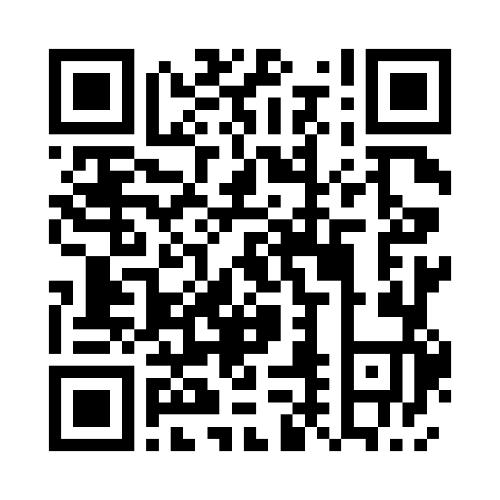
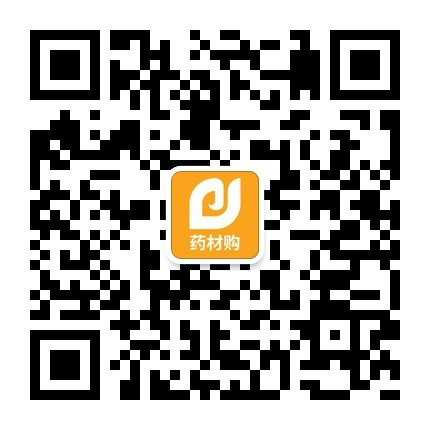
20160329 ready to done

diff --git a/res/Btrade-boss/templates/purchase.html b/res/Btrade-boss/templates/purchase.html
@@ -1,5 +1,6 @@
 {% extends "base.html" %}
 {% block container %}
+{% import config %}
 <div class="content-wrapper">
     <section class="content-header">
         <h1>订单管理</h1>
@@ -10,10 +11,7 @@
                 <a href="/purchase/purchaselist/type/-1/starttime/{{starttime}}/endtime/{{endtime}}"><span class="label {% if int(type) < 0%}label-warning{%else%}label-default{%end%}">全部（{{stat.get(0,0) + stat.get(1,0) + stat.get(3,0)}}）</span></a>
             </div>
             <div class="form-group">
-                <a href="/purchase/purchaselist/type/1/starttime/{{starttime}}/endtime/{{endtime}}"><span class="label {% if int(type) == 1%}label-warning{%else%}label-default{%end%}">等待报价（{{stat.get(1,0)}}）</span></a>
-            </div>
-            <div class="form-group">
-                <a href="/purchase/purchaselist/type/3/starttime/{{starttime}}/endtime/{{endtime}}"><span class="label {% if int(type) == 3%}label-warning{%else%}label-default{%end%}">成功采购（{{stat.get(3,0)}}）</span></a>
+                <a href="/purchase/purchaselist/type/1/starttime/{{starttime}}/endtime/{{endtime}}"><span class="label {% if int(type) == 1%}label-warning{%else%}label-default{%end%}">进行中（{{stat.get(1,0)}}）</span></a>
             </div>
             <div class="form-group">
                 <a href="/purchase/purchaselist/type/0/starttime/{{starttime}}/endtime/{{endtime}}"><span class="label {% if int(type) == 0%}label-warning{%else%}label-default{%end%}">关闭（{{stat.get(0,0)}}）</span></a>
@@ -146,7 +144,7 @@
                                 {% end %}
                             </td>
                             <td style="text-align:center;">
-                                <span class="glyphicon glyphicon-share" rel="{{purchaseinfo.id}}" sharerel="{{purchase.nickname}}采购{{purchaseinfo.name}}{{purchaseinfo.quantity}}公斤，{{purchaseinfo.specification}}，产地{{purchaseinfo.origin}}，{{purchaseinfo.quality}}。请速报价：http://ycg.cn/buy/{{purchaseinfo.id}}" style="color:#f0ad4e;"></span>&nbsp;&nbsp;
+                                <span class="glyphicon glyphicon-share" rel="{{purchaseinfo.id}}" sharerel="{{purchase.nickname}}采购{{purchaseinfo.name}}{{purchaseinfo.quantity}}公斤，{{purchaseinfo.specification}}，产地{{purchaseinfo.origin}}，{{purchaseinfo.quality}}。请速报价：{{config.host}}/purchase/purchaseinfo/{{purchaseinfo.id}}" style="color:#f0ad4e;"></span>&nbsp;&nbsp;
                             </td>
                             <td></td>
                         </tr>
@@ -174,7 +172,7 @@
                 <div class="bs-example">
                     <h5><img width="30" src="{{ static_url('images/wechat.jpg') }}" />  微信邀请朋友报价</h5>
                     <p>微信扫描如下二维码，可发给微信好友或分享朋友圈，邀请前来报价</p>
-                    <center><img src="{{ static_url('images/qrcode.jpg') }}" width="180"/></center>
+                    <center><img id="qrcode" src="" width="180"/></center>
                 </div>
             </div>
             <div class="col-sm-6">
@@ -199,8 +197,11 @@ $(document).ready(function(){
 
     $(".glyphicon-share").click(function() {
         var id = $(this).attr('rel');
+        var qrcode = "http://qr.liantu.com/api.php?text={{config.host}}/purchase/purchaseinfo/"+id;
         var share = $(this).attr('sharerel');
         $("#sharemsg").attr("placeholder", share);
+        $("#sharemsg").html(share);
+        $("#qrcode").attr("src",qrcode)
         $("#share").modal();
     });
 

diff --git a/res/Btrade-pc/templates/dashboard/mypurchase.html b/res/Btrade-pc/templates/dashboard/mypurchase.html
@@ -1,5 +1,9 @@
 {% extends "base.html" %}
+{% block title %}
+我的采购_我的工作台_药材购
+{% end %}
 {% block page-wrapper %}
+{% import config %}
 <div class="main-cont">
     <div class="menu">
         <ul class="yc-ul">
@@ -60,7 +64,7 @@
                     <div class="td4">
                         {% if (purchase.term != 0 and purchase.has_key("timedelta") and purchase.timedelta > 0) or purchase.term == 0%}
                         <a class="icons icons-edit" href="/mypurchase/update/{{purchase.id}}" title="编辑"></a>
-                        <a class="icons icons-share" href="#" title="分享"></a>
+                        <a class="icons icons-share" href="#" title="分享" purchaseid="{{ purchase.id }}"></a>
                         {% if purchase.status != 0 %}
                         <a class="icons icons-delete" href="#" pid="{{purchase.id}}" title="关闭"></a>
                         {% end %}
@@ -99,7 +103,7 @@
                         {% end %}
                     </div>
                     <div class="td4">
-                        <a class="icons icons-share" href="#" title="分享"></a>
+                        <a class="icons icons-share" href="#" title="分享" purchaseinfoid="{{purchaseinfo.id}}"></a>
                         <!--<a class="icons icons-delete" href="#" title="删除"></a>-->
                     </div>
                 </div>
@@ -241,7 +245,12 @@ $jModalDelete.on('click', '.btn', function() {
 
 // 分享
 $('.list').on('click', '.icons-share', function() {
-    var qrcodeSrc = 'static/images/qrcode.jpg';
+    var qrcodeSrc;
+    if($(this).attr("purchaseid")){
+        qrcodeSrc = 'http://qr.liantu.com/api.php?text={{config.host}}/purchaseinfobatch/purchaseid/'+$(this).attr("purchaseid");
+    }else{
+        qrcodeSrc = 'http://qr.liantu.com/api.php?text={{config.host}}/purchase/purchaseinfo/'+$(this).attr("purchaseinfoid");
+    }
     $('#jModalShare').find('.qrcode img').attr('src', qrcodeSrc);
     $('#jModalShare').modal();
     return false;

diff --git a/res/Btrade-pc/templates/dashboard/mypurchaseinfo.html b/res/Btrade-pc/templates/dashboard/mypurchaseinfo.html
@@ -1,5 +1,9 @@
 {% extends "base.html" %}
+{% block title %}
+我的采购_我的工作台_药材购
+{% end %}
 {% block page-wrapper %}
+{% import config %}
 <div class="main-cont">
     <div class="menu">
         <ul class="yc-ul">
@@ -22,7 +26,7 @@
                     <div class="weight">{{ purchase.quantity }}公斤</div>
                     <div class="desc">
                         <p><span>质量要求</span>{{ purchase.quality }}</p>
-                        <p><span>意向价格</span> {{ purchase.price }}元/公斤</p>
+                        <p><span>意向价格</span> {% if purchase.price > 0 %}{{ purchase.price }}元/公斤 封顶{% else %}面议{% end %}</p>
                         <p><span>合格品样例照</span></p>
                         <p class="thumb">
                             {% for attachment in purchase.attachments %}
@@ -290,7 +294,7 @@
             </div>
             <div class="modal-body">
                 <div class="share">
-                    <div class="qrcode"><img height="114" width="114" alt="" src="/static/images/qrcode.jpg"></div>
+                    <div class="qrcode"><img height="114" width="114" alt="" src=""></div>
                     <div class="txt">
                         <h3><i class="icons icons-wechat"></i>微信邀请朋友报价</h3>
                         <p>微信扫描右侧二维码，发送到朋友圈，邀请前来报价</p>
@@ -401,7 +405,7 @@ $jModalDelete.on('click', '.btn', function() {
 
 // 分享
 $('.similarity').on('click', '.icons-share', function() {
-    var qrcodeSrc = 'uploads/qrcode.jpg';
+    var qrcodeSrc = 'http://qr.liantu.com/api.php?text={{config.host}}/purchaseinfobatch/purchaseid/{{purchase.id}}';
     $('#jModalShare').find('.qrcode img').attr('src', qrcodeSrc);
     $('#jModalShare').modal();
     return false;

diff --git a/res/Btrade-boss/templates/purchaseinfo.html b/res/Btrade-boss/templates/purchaseinfo.html
@@ -1,5 +1,6 @@
 {% extends "base.html" %}
 {% block container %}
+{% import config %}
 <style>
     .control-label{
         color:#939393;
@@ -278,13 +279,13 @@
                 <div class="bs-example">
                     <h5><img width="30" src="{{ static_url('images/wechat.jpg') }}" />  微信邀请朋友报价</h5>
                     <p>微信扫描如下二维码，可发给微信好友或分享朋友圈，邀请前来报价</p>
-                    <center><img src="{{ static_url('images/qrcode.jpg') }}" width="180"/></center>
+                    <center><img src="http://qr.liantu.com/api.php?text={{config.host}}/purchaseinfobatch/purchaseid/{{purchase.id}}" width="180"/></center>
                 </div>
             </div>
             <div class="col-sm-6">
                 <h5><img width="30" src="{{ static_url('images/qq.jpg') }}" />  QQ邀请朋友报价</h5>
                 <p>复制如下消息，发送给QQ好友或QQ群，邀请其前来报价</p>
-                <textarea id="sharemsg" class="form-control" style="width: 250px; height: 100px;" placeholder="{{user.nickname}}采购{{purchase.name}}{{purchase.quantity}}公斤，{{purchase.specification}}，产地{{purchase.origin}}，{{purchase.quality}}。请速报价：http://ycg.cn/buy/{{purchase.id}}"></textarea>
+                <textarea id="sharemsg" class="form-control" style="width: 250px; height: 100px;" placeholder="">{{user.nickname}}采购{{purchase.name}}{{purchase.quantity}}公斤，{{purchase.specification}}，产地{{purchase.origin}}，{{purchase.quality}}。请速报价：{{config.host}}/purchaseinfobatch/purchaseid/{{purchase.id}}</textarea>
                 <br>
                 <button style="width:250px" type="button" class="btn btn-default">复制</button>
             </div>

diff --git a/res/Btrade-mobile/templates/quote.html b/res/Btrade-mobile/templates/quote.html
@@ -138,12 +138,12 @@
                 <div class="price">
                     <i class="iconfont icon-check-yes"></i>
                     <span>裸价</span>
-                    <input class="ipt" id="jPrice" type="number" value="1" data-maxprice="{{ purchase.price }}">
+                    <input class="ipt" id="jPrice" type="number" value="1" data-maxprice="{% if purchase.price > 0 %}{{ purchase.price }}{% end %}">
                     <span>元/公斤</span>
                 </div>
                 <div class="msg" id="jPriceMsg">
                     <i class="iconfont icon-exclamation"></i>
-                    <span>报价高于采购商预期（{{ purchase.price }}元/公斤 封顶），请酌情控制，更利于达成交易</span>
+                    <span>报价高于采购商预期（{% if purchase.price > 0 %}{{ purchase.price }}元/公斤{% else %}面议{% end %}），请酌情控制，更利于达成交易</span>
                 </div>
                 <div class="txt">价格说明</div>
                 <div class="describe">
@@ -214,7 +214,7 @@
             <div class="weight">{{ purchase.quantity }}公斤</div>
             <div class="desc">
                 <p>{{ purchase.quantity }}</p>
-                <p><span>意向价格</span> {{ purchase.price }}元/公斤 封顶</p>
+                <p><span>意向价格</span> {% if purchase.price > 0 %}{{ purchase.price }}元/公斤{% else %}面议{% end %}元/公斤 封顶</p>
                 <p><span>合格品样例照</span></p>
                 {% for attachment in purchase.attachments %}
                 <p class="thumb"><img src="{{ attachment }}" data-src="{{ attachment }}" alt=""></p>

diff --git a/res/Btrade-pc/templates/success.html b/res/Btrade-pc/templates/success.html
@@ -1,5 +1,9 @@
 {% extends "base.html" %}
+{% block title %}
+发采购_自动对接全国货源极速报价_药材购
+{% end %}
 {% block container %}
+{% import config %}
 <link rel="stylesheet" href="{{ static_url('css/order.css')}}" />
 <section class="sec">
     <div class="container">
@@ -52,14 +56,14 @@
                 <div class="bd">
                     <h3><i class="icons icons-wechat"></i>微信邀请朋友报价</h3>
                     <p>微信扫描如下二维码，发送到朋友圈，邀请前来报价</p>
-                    <p class="qrcode"><img width="114" height="114" src="{{ static_url('images/qrcode.jpg')}}" alt=""></p>
+                    <p class="qrcode"><img width="114" height="114" src="http://qr.liantu.com/api.php?text={{config.host}}/purchaseinfobatch/purchaseid/{{purchaseid}}" alt=""></p>
                 </div>
 
                 <div class="bd">
                     <h3><i class="icons icons-qq"></i>QQ邀请朋友报价</h3>
                     <p>复制如下消息，发送给QQ好友或QQ群，邀请前来报价</p>
                     <textarea class="share" id="clipboard_textarea">采购黄连100公斤，鸡爪，产地重庆。符合2010药典标准
-请速报价htpp://m.yaocai.pro/purchaseinfobatch/purchaseid/{{purchaseid}}</textarea>
+请速报价{{config.host}}/purchaseinfobatch/purchaseid/{{purchaseid}}</textarea>
                     <button type="button" class="btn-copy" data-clipboard-target="clipboard_textarea" id="jCopyButton">复制</button>
                     <p class="msg" id="jCopyMsg">复制成功!</p>
                 </div>

diff --git a/res/Btrade-mobile/templates/purchaseinfo.html b/res/Btrade-mobile/templates/purchaseinfo.html
@@ -1,4 +1,7 @@
 {% extends "base.html" %}
+{% block title %}
+去报价，海量实时采购单药材购
+{% end %}
 {% block container %}
 <header class="yc-header">
     <div class="yc-header-back">
@@ -42,7 +45,7 @@
             <div class="weight">{{ purchase.quantity }}公斤</div>
             <div class="desc">
                 <p>{{ purchase.quality }}</p>
-                <p><span>意向价格</span> {{ purchase.price }}元/公斤 封顶</p>
+                <p><span>意向价格</span> {% if purchase.price > 0 %}{{ purchase.price }}元/公斤{% else %}面议{% end %}</p>
                 <p><span>合格品样例照</span></p>
                 {% for attachment in purchase.attachments %}
                 <p class="thumb"><img src="{{ attachment.attachment }}" data-src="{{ attachment.attachment.replace('_thumb', '') }}" alt=""></p>
@@ -95,7 +98,7 @@
         <h3>交收要求</h3>
         <dl class="yc-demand">
             <dt>交货地：</dt>
-            <dd>{{ purchase.province }}  {{ purchase.areaname }}</dd>
+            <dd>{% if purchase.province %}{{ purchase.province }}{% end %}  {% if purchase.areaname %}{{ purchase.areaname }}{% end %}</dd>
             <dt>发票要求：</dt>
             <dd>
                 {% if purchase.invoice == 1%}

diff --git a/res/Btrade-pc/templates/index.html b/res/Btrade-pc/templates/index.html
@@ -1,5 +1,6 @@
 {% extends "base.html" %}
 {% block container %}
+{% import config %}
 <link rel="stylesheet" href="{{ static_url('css/index.css')}}" />
 <section class="sec">
     <div class="full-banner">
@@ -146,7 +147,7 @@
                     </div>
                     <div class="td3">
                         <div class="qrcode">
-                            <span><img src="static/images/qrcode.jpg" alt=""></span>
+                            <span><img src="http://qr.liantu.com/api.php?text={{config.host}}/purchase/purchaseinfo/{{purchaseinfo.id}}"/></span>
                         </div>
                         <div class="detail">
                             微信扫一扫<br>查看详情<br>立即报价
@@ -200,7 +201,7 @@
                         <small>裸价</small>
                         <div class="qrcode">
                             我也去报价
-                            <span><img src="static/images/qrcode.jpg" alt=""></span>
+                            <span><img src="http://qr.liantu.com/api.php?text={{config.host}}/purchase/purchaseinfo/{{quote.pid}}"/></span>
                         </div>
                     </div>
                 </div>

diff --git a/res/Btrade-mobile/templates/yaocaigou.html b/res/Btrade-mobile/templates/yaocaigou.html
@@ -1,13 +1,16 @@
 {% extends "base.html" %}
+{% block title %}
+发采购，即刻对接全国货源
+{% end %}
 {% block container %}
 <section class="yc-content">
     <div class="yc-article">
-        <h1 class="title tc">请在电脑上访问www.YaoCai.pro</h1>
+        <h1 class="title tc">请在电脑上访问www.yaocai.pro</h1>
         <div class="text">
             <strong>亲们：</strong>
             <p>手机上的“我要采购”还没开发完~马上猴年春节了，作为程序猿，老板答应我早点回家过年，看望父母，多多相亲，我就先回老家了...此处眼含泪光...年后我会加班加点，早点让亲可以手机上找货采购！</p>
-            <p>但是电脑上是可以找货、采购的，请在电脑商访问：www.YaoCai.pro</p>
-            <p>但是电脑上是可以找货、采购的，请在电脑商访问：www.YaoCai.pro</p>
+            <p>但是电脑上是可以找货、采购的，请在电脑商访问：www.yaocai.pro</p>
+            <p>但是电脑上是可以找货、采购的，请在电脑商访问：www.yaocai.pro</p>
             <p>祝猴年大吉！</p>
         </div>
         <div class="author">

diff --git a/res/Btrade-mobile/templates/public/head.html b/res/Btrade-mobile/templates/public/head.html
@@ -2,9 +2,9 @@
     <meta charset="utf-8">
     <meta http-equiv="X-UA-Compatible" content="IE=edge">
     <meta name="viewport" content="width=device-width, initial-scale=1, maximum-scale=1, user-scalable=no">
-    <meta name="description" content="">
-    <meta name="author" content="">
-    <title>{% block title %}{% end %}{{ handler.settings['app']['name'] }}</title>
+    <meta name="keywords" content="药材购,中药材,药材,饮片厂采购,药厂采购,中药材交易,中药材采购,中药材销售" />
+    <meta name="description" content="药材购（www.yaocai.pro），药材采购的专业助手。饮片厂、药厂、经营户发布采购，轻松找货，对接全国药商。药商查看饮片厂、药厂实时采购单，随时报价。" />
+    <title>{% block title %}药材购{% end %}</title>
     <link rel="shortcut icon" type="image/x-icon" href="{{ static_url('images/favicon.ico')}}" media="screen" />
     <link rel="stylesheet" href="{{ static_url('css/bootstrap.min.css') }}">
     <link rel="stylesheet" href="{{ static_url('css/app.css') }}">

diff --git a/res/Btrade-pc/templates/public/head.html b/res/Btrade-pc/templates/public/head.html
@@ -2,7 +2,9 @@
     <meta charset="utf-8">
     <meta http-equiv="X-UA-Compatible" content="IE=edge">
     <meta name="viewport" content="width=device-width,initial-scale=1.0,maximum-scale=1.0,minimum-scale=1.0,user-scalable=no" />
-    <title>首页-药材购{% block title %}{% end %}{{ handler.settings['app']['name'] }}</title>
+    <meta name="keywords" content="药材购,中药材,药材,饮片厂采购,药厂采购,中药材交易,中药材采购,中药材销售" />
+    <meta name="description" content="药材购（www.yaocai.pro），药材采购的专业助手。饮片厂、药厂、经营户发布采购，轻松找货，对接全国药商。药商查看饮片厂、药厂实时采购单，随时报价。" />
+    <title>{% block title %}药材购_药材采购的专业助手{% end %}</title>
     <!-- 浏览器高速模式 -->
     <meta name="renderer" content="webkit" />
     <link rel="shortcut icon" type="image/x-icon" href="{{ static_url('images/favicon.ico')}}" media="screen" />

diff --git a/res/Btrade-pc/templates/purchase.html b/res/Btrade-pc/templates/purchase.html
@@ -1,4 +1,7 @@
 {% extends "base.html" %}
+{% block title %}
+发采购_自动对接全国货源极速报价_药材购
+{% end %}
 {% block container %}
 <link rel="stylesheet" href="{{ static_url('css/order.css')}}" />
 <section class="sec">
@@ -92,10 +95,11 @@
                         </div>
                         <div class="group">
                             <div class="txt mid">
-                                <span>单位全称/姓名</span>
+                                <span>*单位全称/姓名</span>
                             </div>
                             <div class="cont">
                                 <input class="ipt wide" type="text" id="jCname">
+                                <span class="error"></span>
                                 <span class="tips">请填写您单位的全称，如亳州永刚中药饮片有限公司；若未个人经营，请填写姓名</span>
                             </div>
                         </div>
